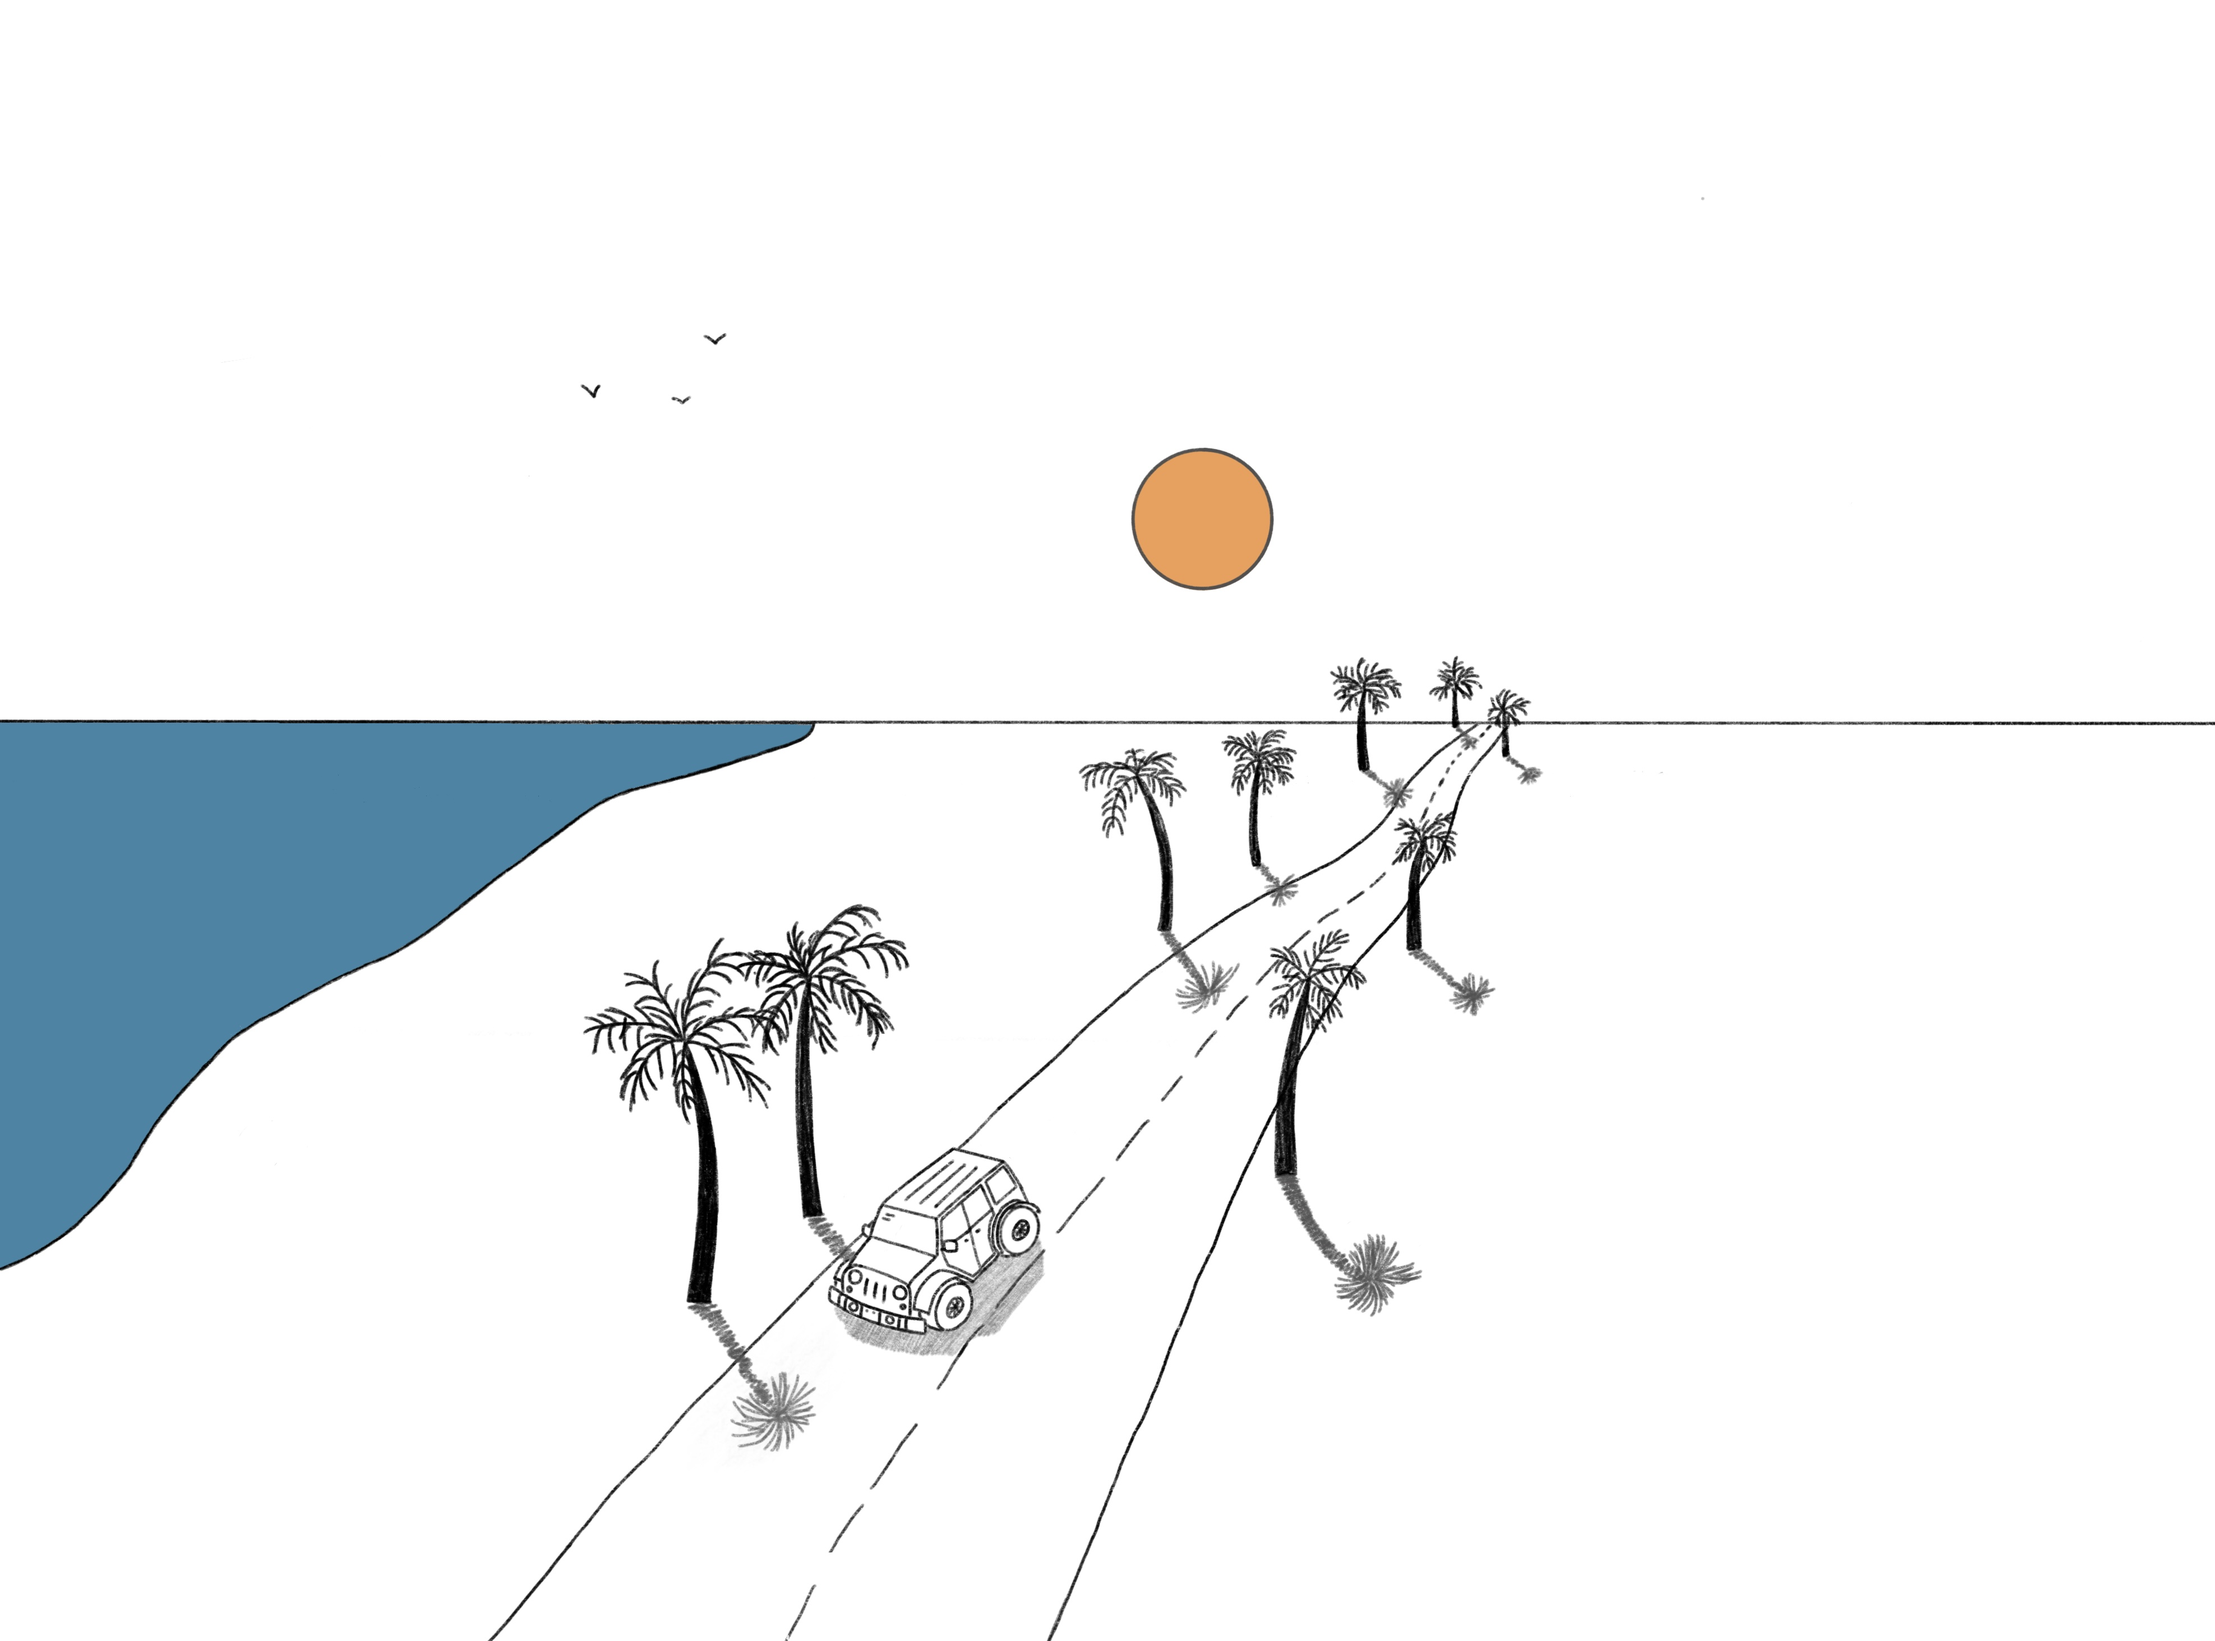
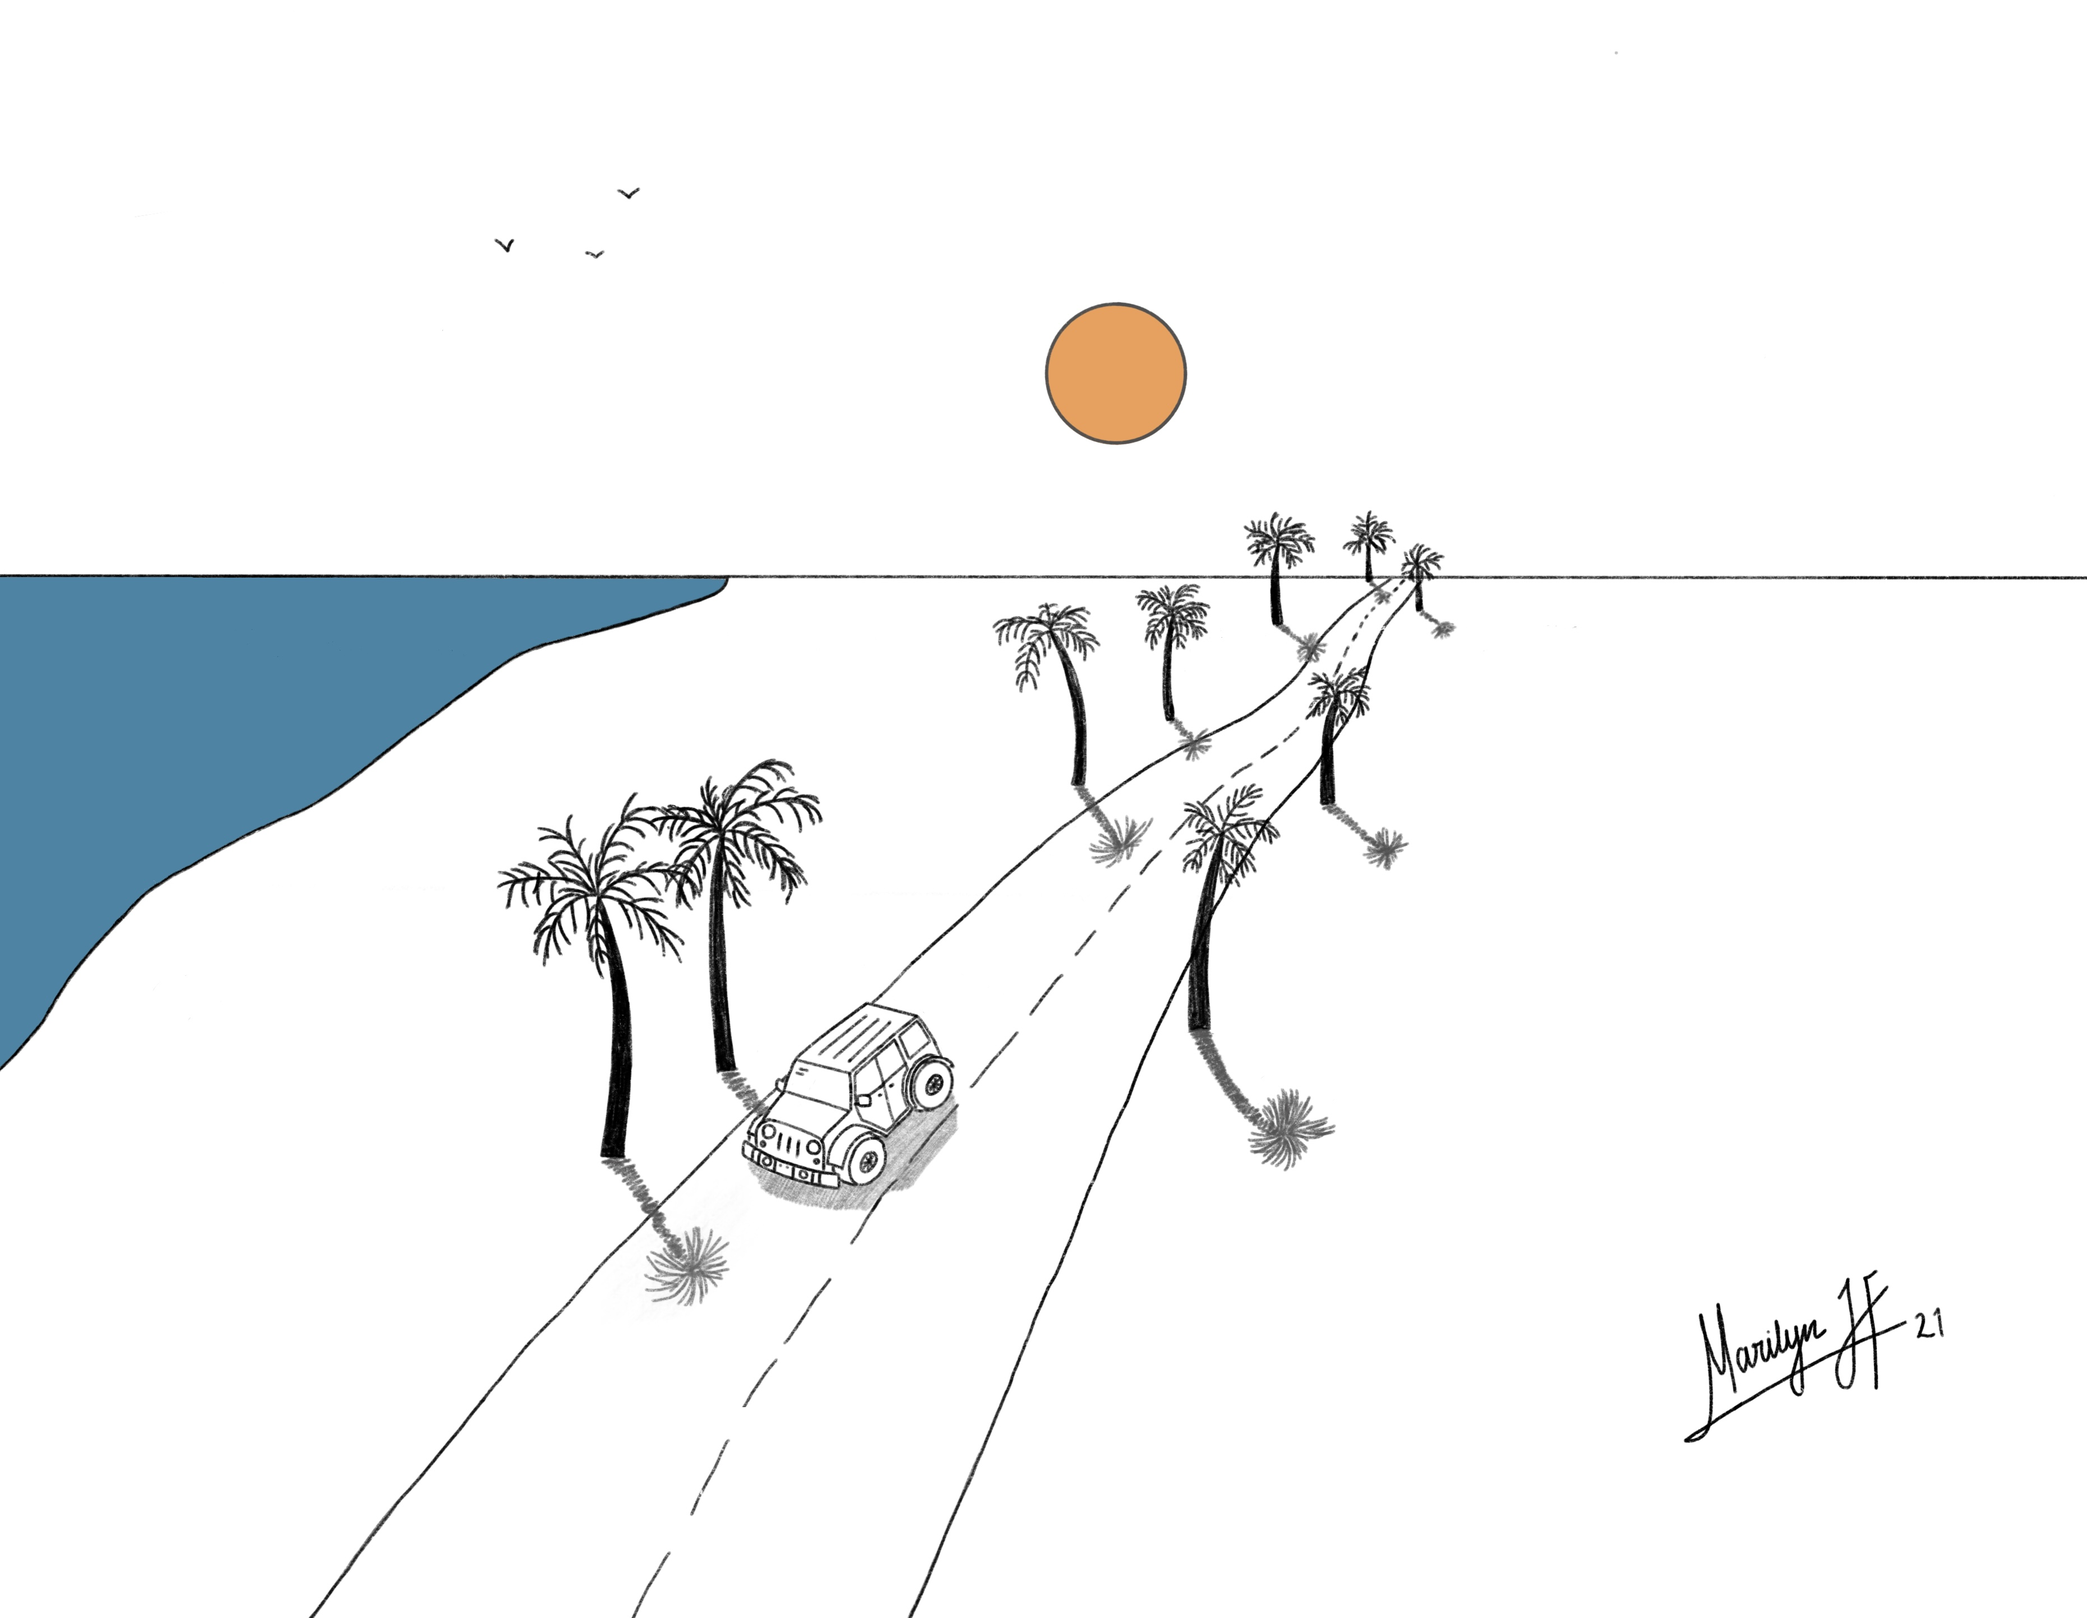
about, exp and proj fixes and addons

diff --git a/src/three/AboutRoom.jsx b/src/three/AboutRoom.jsx
@@ -1,4 +1,4 @@
-import { Suspense, useMemo, useRef, useState } from 'react'
+import { Suspense, useEffect, useMemo, useRef, useState } from 'react'
 import * as THREE from 'three'
 import { useFrame } from '@react-three/fiber'
 import { Text, useTexture } from '@react-three/drei'
@@ -150,7 +150,23 @@ function WallLink({ label, url, position, size = 0.18 }) {
 
 // One flat orange face. `onFace` (optional) makes it clickable to turn to it.
 // Transparent so it can fade in — its opacity is driven each frame by the room.
-function Wall({ position, rotation, size, color, onFace }) {
+// Wall textures — one per shade, baked from texture.png. Loaded once, cached by URL.
+const _texCache = {}
+function loadWallTex(url, cb) {
+  if (_texCache[url]) return cb(_texCache[url])
+  new THREE.TextureLoader().load(url, (t) => {
+    t.colorSpace = THREE.SRGBColorSpace
+    _texCache[url] = t
+    cb(t)
+  })
+}
+
+function Wall({ position, rotation, size, texUrl, fallback, onFace }) {
+  // The whole image IS the wall (no tiling, no tint — the shade is baked into each
+  // variant). Show the flat shade until the texture has loaded.
+  const [tex, setTex] = useState(_texCache[texUrl])
+  useEffect(() => loadWallTex(texUrl, setTex), [texUrl])
+
   return (
     <mesh
       position={position}
@@ -160,7 +176,14 @@ function Wall({ position, rotation, size, color, onFace }) {
       onPointerOut={onFace ? setCursor('auto') : undefined}
     >
       <planeGeometry args={size} />
-      <meshBasicMaterial color={color} side={THREE.DoubleSide} transparent opacity={0} toneMapped={false} />
+      <meshBasicMaterial
+        map={tex || null}
+        color={tex ? '#ffffff' : fallback}
+        side={THREE.DoubleSide}
+        transparent
+        opacity={0}
+        toneMapped={false}
+      />
     </mesh>
   )
 }
@@ -204,33 +227,38 @@ export function AboutRoom({ nav, goWall, lang = 'en' }) {
         <Wall
           position={[cx, cy, ROOM_BACK_Z]}
           size={[W * 2, H * 2]}
-          color={ROOM_COLORS.back}
+          texUrl="/about/wall-back.webp"
+          fallback={ROOM_COLORS.back}
           onFace={() => goWall('back')}
         />
         <Wall
           position={[cx, cy + H, ROOM_MID_Z]}
           rotation={[Math.PI / 2, 0, 0]}
           size={[W * 2, DEPTH]}
-          color={ROOM_COLORS.ceiling}
+          texUrl="/about/wall-ceiling.webp"
+          fallback={ROOM_COLORS.ceiling}
         />
         <Wall
           position={[cx, cy - H, ROOM_MID_Z]}
           rotation={[-Math.PI / 2, 0, 0]}
           size={[W * 2, DEPTH]}
-          color={ROOM_COLORS.floor}
+          texUrl="/about/wall-floor.webp"
+          fallback={ROOM_COLORS.floor}
         />
         <Wall
           position={[cx - W, cy, ROOM_MID_Z]}
           rotation={[0, Math.PI / 2, 0]}
           size={[DEPTH, H * 2]}
-          color={ROOM_COLORS.left}
+          texUrl="/about/wall-left.webp"
+          fallback={ROOM_COLORS.left}
           onFace={() => goWall('left')}
         />
         <Wall
           position={[cx + W, cy, ROOM_MID_Z]}
           rotation={[0, -Math.PI / 2, 0]}
           size={[DEPTH, H * 2]}
-          color={ROOM_COLORS.right}
+          texUrl="/about/wall-right.webp"
+          fallback={ROOM_COLORS.right}
           onFace={() => goWall('right')}
         />
       </group>
@@ -284,13 +312,13 @@ export function AboutRoom({ nav, goWall, lang = 'en' }) {
                   {l}
                 </Text>
               ))}
-              <Text position={[0, -H * 0.24, 0]} {...head(0.13)} fillOpacity={0.85}>
+              <Text position={[0, -H * 0.3, 0]} {...head(0.13)} fillOpacity={0.85}>
                 {left.languagesHeading.toUpperCase()}
               </Text>
               {left.languages.map((l, i) => (
                 <Text
                   key={`lang${i}`}
-                  position={[0, -H * 0.38 - i * 0.17, 0]}
+                  position={[0, -H * 0.44 - i * 0.17, 0]}
                   {...body(0.11)}
                   fillOpacity={0.8}
                 >

diff --git a/src/App.css b/src/App.css
@@ -78,68 +78,73 @@
 }
 
 /* Top-right controls — fixed above everything: CV download + language toggle. */
+/* Top-right cluster (CV + language toggle) sits over a green brush stroke. */
 .topright {
   position: fixed;
-  top: clamp(1rem, 3vw, 2rem);
-  right: clamp(1rem, 3vw, 2rem);
+  top: clamp(0.4rem, 2.4vw, 1.3rem);
+  right: clamp(0.4rem, 2.4vw, 1.3rem);
   z-index: 4;
   display: flex;
   align-items: center;
-  gap: 0.5rem;
+  gap: 0.55rem;
+  padding: 0.95rem 1.75rem 1.15rem;
+  background: url('/home/green_stroke.webp') no-repeat center / 100% 100%;
 }
 
-/* CV download — a small pill: down-arrow icon + "CV". */
+/* CV download — down-arrow icon + "CV", bare over the stroke (dark for contrast). */
 .cvdownload {
   display: inline-flex;
   align-items: center;
-  gap: 0.32rem;
-  padding: 0.34rem 0.7rem;
-  border-radius: 999px;
-  background: rgba(0, 0, 0, 0.25);
-  border: 1px solid rgba(255, 255, 255, 0.4);
-  color: #fff;
+  gap: 0.3rem;
+  padding: 0;
+  background: none;
+  border: none;
+  color: #26330b;
   font-family: 'Helvetica Neue', Helvetica, Arial, sans-serif;
-  font-size: 0.78rem;
+  font-size: 0.8rem;
+  font-weight: 700;
   letter-spacing: 0.06em;
   text-decoration: none;
   cursor: pointer;
-  transition: background 0.2s ease, border-color 0.2s ease;
+  transition: opacity 0.2s ease;
 }
 .cvdownload svg {
   display: block;
 }
 .cvdownload:hover {
-  background: rgba(0, 0, 0, 0.45);
-  border-color: rgba(255, 255, 255, 0.8);
+  opacity: 0.65;
 }
 
-/* Language toggle — a compact EN | ES segmented control (active segment filled). */
+/* Language toggle — bare EN | ES text over the stroke; active one is darker. */
 .langtoggle {
   display: inline-flex;
-  padding: 2px;
-  gap: 2px;
-  background: rgba(0, 0, 0, 0.25);
-  border: 1px solid rgba(255, 255, 255, 0.4);
-  border-radius: 999px;
+  align-items: center;
+  gap: 0.15rem;
+  padding: 0;
+  background: none;
+  border: none;
+  border-left: 1px solid rgba(38, 51, 11, 0.35);
+  padding-left: 0.55rem;
 }
 .langtoggle button {
-  padding: 0.28rem 0.55rem;
+  padding: 0.1rem 0.2rem;
   border: none;
   background: transparent;
-  color: rgba(255, 255, 255, 0.65);
+  color: rgba(38, 51, 11, 0.5);
   font-family: 'Helvetica Neue', Helvetica, Arial, sans-serif;
-  font-size: 0.75rem;
+  font-size: 0.8rem;
+  font-weight: 700;
   letter-spacing: 0.06em;
-  border-radius: 999px;
   cursor: pointer;
-  transition: background 0.2s ease, color 0.2s ease;
+  transition: color 0.2s ease;
 }
 .langtoggle button:hover {
-  color: #fff;
+  color: #26330b;
 }
 .langtoggle button.is-active {
-  background: rgba(255, 255, 255, 0.92);
-  color: #141414;
+  color: #26330b;
+  text-decoration: underline;
+  text-underline-offset: 3px;
 }
 
 @keyframes hint-pulse {
@@ -233,24 +238,29 @@
   border-color: rgba(255, 248, 242, 0.9);
 }
 
+/* Back button — dark label over a green brush stroke (contrast on the light green). */
 .section__back {
   position: fixed;
-  top: clamp(1rem, 3vw, 2rem);
-  left: clamp(1rem, 3vw, 2rem);
+  top: clamp(0.4rem, 2.4vw, 1.3rem);
+  left: clamp(0.4rem, 2.4vw, 1.3rem);
   z-index: 2;
-  padding: 0.5rem 1rem;
-  background: rgba(0, 0, 0, 0.25);
-  border: 1px solid rgba(255, 255, 255, 0.4);
-  border-radius: 999px;
-  color: #fff;
+  display: inline-flex;
+  align-items: center;
+  justify-content: center;
+  padding: 0.75rem 1.9rem 0.85rem;
+  background: url('/home/green_stroke.webp') no-repeat center / 100% 100%;
+  border: none;
+  color: #26330b;
   font: inherit;
   font-size: 0.9rem;
+  font-weight: 700;
+  letter-spacing: 0.02em;
   cursor: pointer;
-  transition: background 0.2s ease;
+  transition: transform 0.15s ease;
 }
 
 .section__back:hover {
-  background: rgba(0, 0, 0, 0.45);
+  transform: scale(1.05);
 }
 
 /* ── About room HUD: click-through container; only the buttons take clicks ───── */

diff --git a/src/App.jsx b/src/App.jsx
@@ -87,7 +87,7 @@ function Tile({ item, lang }) {
 
   const media = isWidget
     ? item.image
-      ? <img className="home__media" src={item.image} alt={name || ''} />
+      ? <img className="home__media" src={item.image} alt={name || ''} style={item.zoom ? { transform: `scale(${item.zoom})` } : undefined} />
       : <div className="home__placeholder" style={{ background: colorFor(name) }}>{name}</div>
     : item.icon
       ? <img className="home__media" src={item.icon} alt="" />
@@ -100,9 +100,13 @@ function Tile({ item, lang }) {
     </>
   )
 
+  // Where a click goes: an explicit url, else (for image widgets) the full image
+  // itself — so clicking a widget opens the whole picture in a new tab.
+  const href = item.url || (isWidget && item.image) || undefined
+
   const cls = isWidget ? 'home__tile home__tile--widget' : 'home__tile home__tile--app'
-  return item.url ? (
-    <a className={cls} style={style} href={item.url} target="_blank" rel="noreferrer">
+  return href ? (
+    <a className={cls} style={style} href={href} target="_blank" rel="noreferrer">
       {inner}
     </a>
   ) : (
@@ -250,9 +254,6 @@ function ExperienceFrames({ lang }) {
               ›
             </button>
           )}
-          <button className="exp__close" onClick={() => setSelected(null)}>
-            ✕
-          </button>
         </div>
       )}
     </div>

diff --git a/src/homeConfig.js b/src/homeConfig.js
@@ -17,8 +17,8 @@
 
 export const HOME_ITEMS = [
   // — widgets (big image tiles) —
-  { widget: true, name: 'Procreate', image: '/projects/widget-3.jpg',  w: 2, h: 2 },
-  { widget: true, name: 'Indigo', image: '/projects/indigo.png', w: 2, h: 1 },
+  { widget: true, name: 'Procreate', image: '/projects/widget-3.jpg',  w: 2, h: 2, zoom: 1.2 },
+  { widget: true, name: 'Procreate', image: '/projects/widget-4.PNG', w: 2, h: 1 },
   { widget: true, name: 'Procreate', image: '/projects/widget-1.jpg', w: 3, h: 2 },
 
   // — apps (small icons) — `name` may be a string or { en, es } (see i18n pick()).

diff --git a/src/i18n.js b/src/i18n.js
@@ -10,7 +10,7 @@ export const UI = {
   en: {
     role: 'Creative Engineer',
     scroll: 'scroll to enter',
-    back: '← Back',
+    back: '←',
     center: '⌂ Center',
     other: 'Español', // label on the toggle → the language you'd switch TO
     cv: '/cv/cv-en.pdf', // served file
@@ -20,7 +20,7 @@ export const UI = {
   es: {
     role: 'Ingeniera Creativa',
     scroll: 'desliza para entrar',
-    back: '← Volver',
+    back: '←',
     center: '⌂ Centro',
     other: 'English',
     cv: '/cv/cv-es.pdf',
